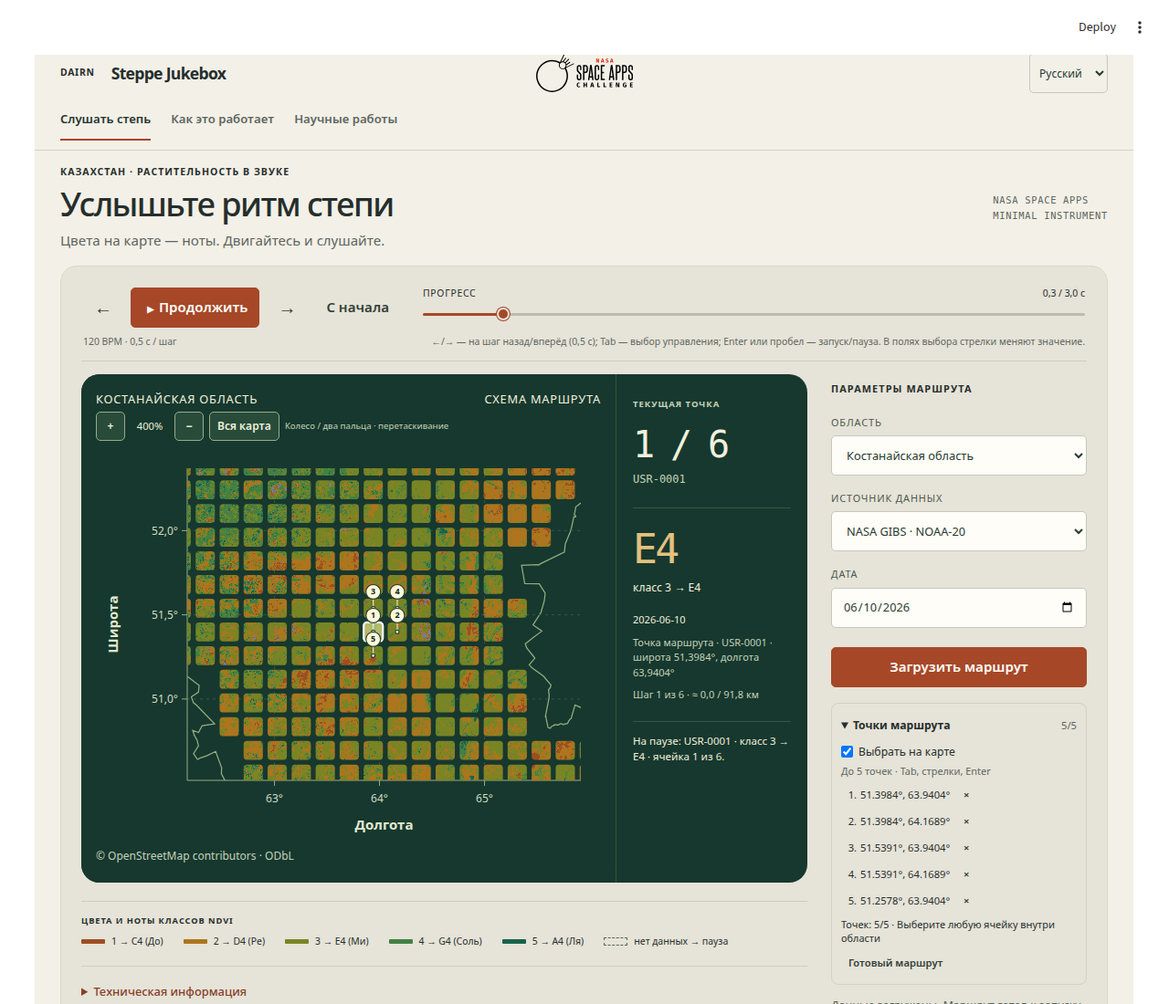
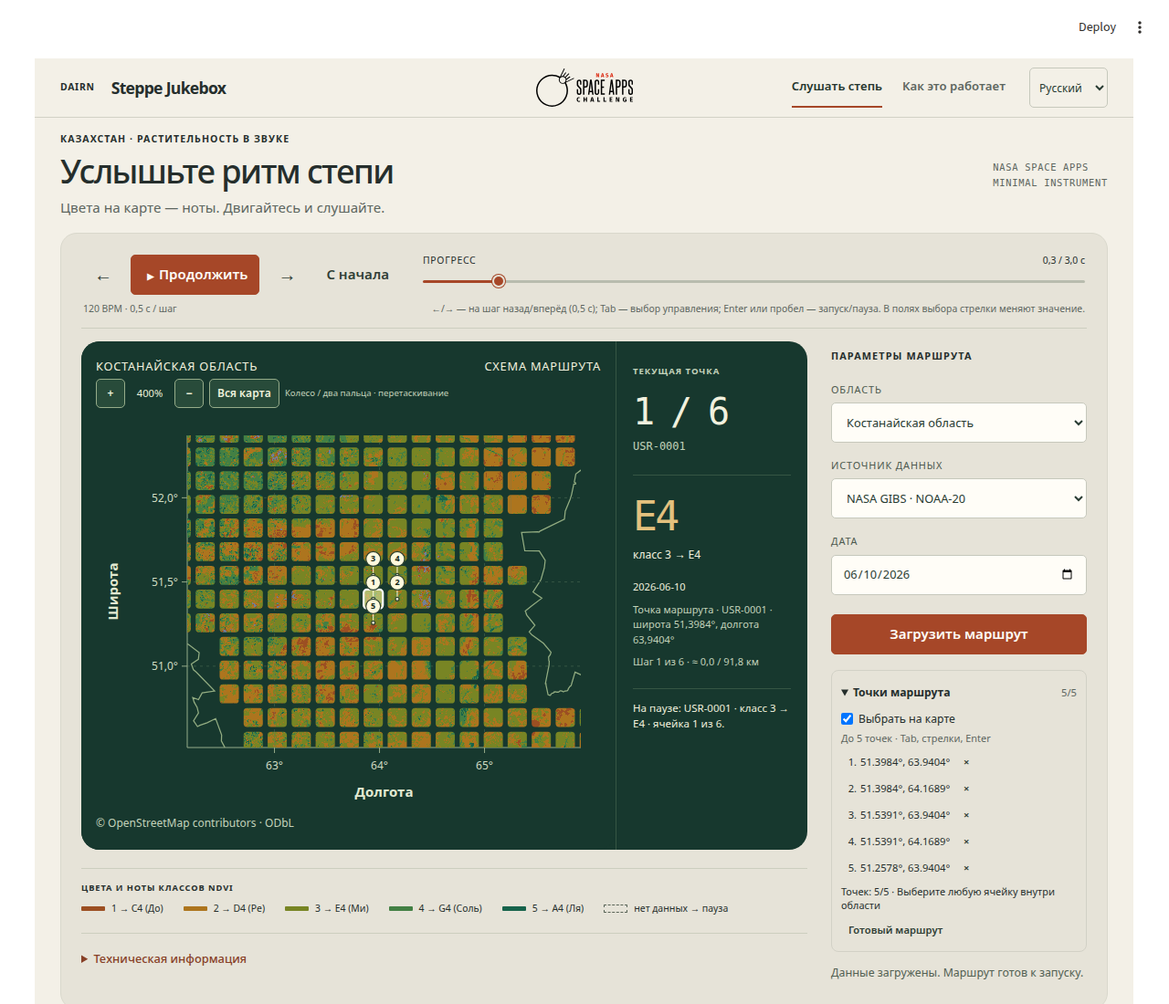
fix: hide research tab from public navigation

diff --git a/steppe_jukebox/frontend/index.html b/steppe_jukebox/frontend/index.html
@@ -19,7 +19,7 @@
       <nav id="navigation" role="tablist" data-i18n-aria="navigation_label">
         <button id="tab-listen" role="tab" aria-selected="true" aria-controls="listen-view" data-view="listen" data-i18n="listen_nav"></button>
         <button id="tab-method" role="tab" aria-selected="false" aria-controls="method-view" tabindex="-1" data-view="method" data-i18n="method_nav"></button>
-        <button id="tab-research" role="tab" aria-selected="false" aria-controls="research-view" tabindex="-1" data-view="research" data-i18n="research_nav"></button>
+        <button id="tab-research" role="tab" aria-selected="false" aria-controls="research-view" tabindex="-1" data-view="research" data-i18n="research_nav" hidden></button>
       </nav>
       <div class="language-field">
         <label class="sr-only" for="language" data-i18n="language_label">Language</label>

diff --git a/steppe_jukebox/frontend/player.js b/steppe_jukebox/frontend/player.js
@@ -65,7 +65,7 @@
   }
 
   function showView(value, focus = false) {
-    if (!views.includes(value)) return;
+    if (!views.includes(value) || $(`tab-${value}`).hidden) return;
     view = value;
     updateViewLayout();
     for (const key of views) {
@@ -670,7 +670,7 @@
     button.addEventListener("click", (event) => { event.preventDefault(); showView(button.dataset.openView || button.dataset.view, true); });
   });
   $("navigation").addEventListener("keydown", (event) => {
-    const tabs = [...$("navigation").querySelectorAll("[role=tab]")];
+    const tabs = [...$("navigation").querySelectorAll("[role=tab]")].filter(tab => !tab.hidden);
     let index = tabs.indexOf(document.activeElement);
     if (index < 0 || !["ArrowLeft", "ArrowRight", "Home", "End"].includes(event.key)) return;
     event.preventDefault();

diff --git a/steppe_jukebox/frontend/styles.css b/steppe_jukebox/frontend/styles.css
@@ -189,7 +189,7 @@ footer > span { font: .6rem ui-monospace,monospace; color: var(--muted); }
   #load-data { margin: 0; align-self: end; }
   .edition { display: none; }
 }
-@media (max-width: 1400px) {
+@media (max-width: 1200px) {
   .site-header { grid-template-areas: 'brand logo language' 'navigation navigation navigation'; gap: 8px 18px; }
   .header-actions { display: contents; }
 }

diff --git a/tests/test_research_view.py b/tests/test_research_view.py
@@ -1,93 +1,31 @@
-"""Restored papers stay separate from satellite data and the running player."""
+"""Research material is retained but unavailable in the public navigation."""
 
 import pytest
 from playwright.sync_api import expect
 
-from test_browser import browser, running_app, media, resize_viewport
-from test_live_browser import transport, ui, load
+from test_browser import browser, app_url, localized_ui, media
 
 
 pytestmark = pytest.mark.browser
 
-PAPERS = {
-    "naurzum": "https://doi.org/10.1515/hacq-2016-0017",
-    "kamennoye": "https://doi.org/10.32523/2616-7034-2023-145-4-63-70",
-}
 
-
-@pytest.mark.parametrize("locale,language,title", [
-    ("ru-RU", "ru", "Научные работы"),
-    ("kk-KZ", "kk", "Ғылыми еңбектер"),
-    ("en-GB", "en", "Research"),
-])
-def test_research_sources_regions_and_narrow_layout(browser, tmp_path, monkeypatch, locale, language, title):
-    folder = transport(tmp_path, monkeypatch)
-    with running_app(None, tmp_path / "research.log", live=True) as url:
-        ctx, page, f = ui(browser, url, locale)
-        errors = []
-        page.on("pageerror", lambda error: errors.append(str(error)))
-        f.locator("#tab-research").click()
-        expect(f.locator("#research-view h1")).to_have_text(title)
-        expect(f.locator("html")).to_have_attribute("lang", language)
-        for selector in ["#listen-view", "#method-view", "#playback-controls", "#selection-panel"]:
-            expect(f.locator(selector)).not_to_be_visible()
-        expect(f.locator(".research-card")).to_have_count(2)
-        expect(f.locator('[data-study="naurzum"]')).to_contain_text("2010")
-        expect(f.locator('[data-study="kamennoye"]')).to_contain_text("2019–2022")
-        for study, link in PAPERS.items():
-            anchor = f.locator(f'[data-study="{study}"] a')
-            expect(anchor).to_have_attribute("href", link)
-            expect(anchor).to_have_attribute("target", "_blank")
-            expect(anchor).to_have_attribute("rel", "noopener noreferrer")
-        expect(f.locator("#research-region-note")).not_to_be_visible()
-        for width in [1440, 1280, 1024, 853, 390, 320]:
-            resize_viewport(page, f, width, 1000)
-            assert f.evaluate("document.documentElement.scrollWidth <= innerWidth"), (language, width)
-            assert page.evaluate("document.documentElement.scrollWidth <= innerWidth")
-            tabs = f.locator('#navigation [role="tab"]').evaluate_all("nodes => nodes.map(n => n.getBoundingClientRect().toJSON())")
-            assert all(t["left"] >= 0 and t["right"] <= f.evaluate("innerWidth") for t in tabs), (language, width, tabs)
-            assert all(a["bottom"] <= b["top"] + 1 or a["right"] <= b["left"] + 1 for a, b in zip(tabs, tabs[1:]))
-        f.locator("#research-view .back-button").click()
-        f.locator("#region").select_option("akmola")
-        f.locator("#tab-research").click()
-        expect(f.locator("#research-region-note")).to_be_visible()
-        expect(f.locator(".research-card")).to_have_count(2)
-        assert not (folder / "requests.log").exists()
-        assert not errors
-        ctx.close()
-
-
-def test_research_navigation_and_source_link_preserve_live_audio(browser, tmp_path, monkeypatch):
-    folder = transport(tmp_path, monkeypatch)
-    with running_app(None, tmp_path / "research-audio.log", live=True) as url:
-        ctx, page, f = ui(browser, url)
-        load(f)
-        source = f.locator("audio").get_attribute("src")
-        requests = (folder / "requests.log").read_text()
-        f.locator("#map-zoom-in").click()
-        zoom = f.evaluate("steppeMapView.zoom")
-        f.locator("#toggle").click()
-        f.wait_for_function("document.querySelector('audio').currentTime > .1")
-        before = media(f)["time"]
-        f.locator("#tab-method").click()
-        f.locator("#tab-method").press("ArrowRight")
-        expect(f.locator("#tab-research")).to_be_focused()
-        f.locator("#language").select_option("kk")
-        ctx.route(PAPERS["naurzum"], lambda route: route.fulfill(status=200, content_type="text/html", body="<title>Research</title>"))
-        with ctx.expect_page() as popup:
-            f.locator('[data-study="naurzum"] a').click()
-        popup.value.wait_for_url(PAPERS["naurzum"])
-        popup.value.close()
-        assert media(f)["time"] >= before and not media(f)["paused"]
-        f.locator("#research-view .back-button").click()
-        f.locator("#toggle").click()
-        paused = media(f)["time"]
-        f.locator("#tab-research").click()
-        f.locator("#language").select_option("en")
-        f.locator("#tab-listen").click()
-        assert media(f)["paused"] and abs(media(f)["time"] - paused) < .01
-        assert f.locator("audio").get_attribute("src") == source
-        assert f.evaluate("steppeMapView.zoom") == zoom
-        assert (folder / "requests.log").read_text() == requests
-        expect(f.locator("audio")).to_have_count(1)
-        ctx.close()
+@pytest.mark.parametrize('language', ['ru', 'kk', 'en'])
+def test_research_stays_hidden_during_navigation_and_playback(browser, app_url, language):
+    with localized_ui(browser, app_url) as (page, f):
+        f.locator('#language').select_option(language)
+        expect(f.locator('#tab-research')).not_to_be_visible()
+        expect(f.locator('#research-view')).not_to_be_visible()
+        expect(f.get_by_role('tab')).to_have_count(2)
+        # Retain the original publications for a later decision to restore them.
+        expect(f.locator('.research-card a[href^="https://doi.org/"]')).to_have_count(2)
+        f.locator('#toggle').click()
+        f.wait_for_function('document.querySelector("audio").currentTime > .1')
+        f.locator('#tab-listen').press('End')
+        expect(f.locator('#tab-method')).to_be_focused()
+        f.locator('#tab-method').press('ArrowRight')
+        expect(f.locator('#tab-listen')).to_be_focused()
+        assert not media(f)['paused']
+        # The hidden tab cannot be opened through its stale click handler either.
+        f.locator('#tab-research').evaluate('e => e.click()')
+        expect(f.locator('#listen-view')).to_be_visible()
+        expect(f.locator('#research-view')).not_to_be_visible()

diff --git a/tests/test_ui_navigation.py b/tests/test_ui_navigation.py
@@ -26,24 +26,23 @@ def test_prototype_navigation_and_context_fit_desktop_and_mobile(browser, journe
         expect(frame.locator(".region-outline")).to_have_count(1)
         for width in [1440, 390, 320]:
             resize_viewport(page, frame, width, 900)
-            for view in ["listen", "method", "research"]:
+            for view in ["listen", "method"]:
                 frame.locator(f"#tab-{view}").click()
                 expect(frame.locator(f"#{view}-view")).to_be_visible()
                 assert frame.evaluate("document.documentElement.scrollWidth <= window.innerWidth"), (language, width, view)
                 assert page.evaluate("document.documentElement.scrollWidth <= window.innerWidth")
             expect(frame.locator("#tab-method")).to_have_text(method)
-        assert frame.locator('#navigation [role="tab"]').evaluate_all("nodes => nodes.map(n => n.dataset.view)") == ["listen", "method", "research"]
+        assert frame.locator('#navigation [role="tab"]:visible').evaluate_all("nodes => nodes.map(n => n.dataset.view)") == ["listen", "method"]
+        expect(frame.locator("#research-view")).not_to_be_visible()
         expect(frame.locator("#places-view, .field-context")).to_have_count(0)
         frame.locator("#tab-listen").click()
         frame.locator("#tab-listen").press("ArrowRight")
         expect(frame.locator("#tab-method")).to_be_focused()
         frame.locator("#tab-method").press("ArrowRight")
-        expect(frame.locator("#tab-research")).to_be_focused()
-        frame.locator("#tab-research").press("ArrowRight")
         expect(frame.locator("#tab-listen")).to_be_focused()
         frame.locator("#tab-listen").press("End")
-        expect(frame.locator("#tab-research")).to_be_focused()
-        frame.locator("#tab-research").press("Home")
+        expect(frame.locator("#tab-method")).to_be_focused()
+        frame.locator("#tab-method").press("Home")
         expect(frame.locator("#tab-listen")).to_be_focused()
         assert media(frame)["paused"] and media(frame)["time"] == 0
 
@@ -56,7 +55,6 @@ def test_navigation_and_language_preserve_clock_restart_stops_without_autoplay(b
         original_source = frame.locator("audio").get_attribute("src")
         before = media(frame)["time"]
         frame.locator("#tab-method").click()
-        frame.locator("#tab-research").click()
         frame.locator("#language").select_option("kk")
         assert media(frame)["time"] >= before
         assert not media(frame)["paused"]
@@ -66,7 +64,6 @@ def test_navigation_and_language_preserve_clock_restart_stops_without_autoplay(b
         paused = media(frame)["time"]
         active = frame.locator(".cell.active").get_attribute("data-cell-id")
         frame.locator("#tab-method").click()
-        frame.locator("#tab-research").click()
         frame.locator("#language").select_option("en")
         frame.locator("#tab-listen").click()
         assert media(frame)["time"] == paused

diff --git a/docs/LOCAL_DEMO.md b/docs/LOCAL_DEMO.md
@@ -1,11 +1,10 @@
 # Локальный запуск: данные NASA и сохранённые CSV
 
-В v0.6.0 используется интерфейс Minimal Instrument с тремя вкладками:
-«Слушать степь», «Как это работает», «Научные работы». Научный раздел
-содержит восстановленные публикации по Наурзуму и Каменному озеру,
-даты полевых наблюдений и ссылки DOI. Обе работы относятся к Костанайской
-области; для Акмолы показывается отдельное пояснение. Переключение раздела
-не прерывает звук и сохраняет пользовательскую паузу. Карта сохраняет вид v0.4.2;
+В v0.6.0 используется интерфейс Minimal Instrument с двумя вкладками:
+«Слушать степь» и «Как это работает». Вкладка «Научные работы» скрыта
+по уточнению пользователя; публикации и переводы сохранены в коде.
+Переключение раздела не прерывает звук и сохраняет пользовательскую паузу.
+Карта сохраняет вид v0.4.2;
 рядом отображаются текущая позиция, ID, нота, класс, дата и координаты.
 Параметры находятся справа, а на узком экране — над картой.
 В центре шапки размещён логотип Space Apps; DAIRN/Steppe Jukebox находятся
@@ -76,7 +75,7 @@ STEPPE_SAVED_REGIONS=1 python -m streamlit run app.py
 
 В поле «Режим» можно выбрать «Путешествие во времени». Переключение режима останавливает прежнюю дорожку и сбрасывает позицию, новый звук не запускается автоматически. При возврате в режим одной даты сохраняется ранее выбранный сезон.
 
-Смена области на вкладке «Слушать степь» останавливает и сбрасывает прежний трек без автозапуска; режим и сезон сохраняются. «С начала» также сбрасывает позицию без автозапуска. Разделы «Слушать степь», «Как это работает» и «Научные работы» доступны с клавиатуры; смена раздела и языка не прерывает звук. Карта использует географический контур OSM, а цвет относится к позициям маршрута.
+Смена области на вкладке «Слушать степь» останавливает и сбрасывает прежний трек без автозапуска; режим и сезон сохраняются. «С начала» также сбрасывает позицию без автозапуска. Разделы «Слушать степь» и «Как это работает» доступны с клавиатуры; скрытая научная вкладка пропускается. Смена раздела и языка не прерывает звук. Карта использует географический контур OSM, а цвет относится к позициям маршрута.
 
 Для Акмолинской области фиксированные даты — 2026-04-15 / 2026-07-16; пропуски весной — AKM-005 и AKM-027, летом — AKM-027. Путешествие содержит 56 дат 2026-04-15 … 2026-11-13. AKM-027 / 2026-07-24 — тишина в интервале 13,0–13,5 с, дата и маркер продолжают движение. Полная дорожка занимает 28 с. Контрольный WAV из #13 совпал с результатом синтезатора побайтно. Описание материалов и ручной проверки — в [отчёте v0.3.0](RELEASE_0.3.0.md).
 

diff --git a/CHANGELOG.md b/CHANGELOG.md
@@ -2,7 +2,7 @@
 
 ## 0.6.0 — 2026-11-15
 
-- После «Как это работает» восстановлен отдельный раздел «Научные работы»: две публикации по Наурзуму и Каменному озеру, даты исследований, полевой контекст и DOI. Доступен на ru/kk/en, сохраняет звук и паузу при переключении. География и годы наблюдений отделены от данных NASA; материалы Костаная не переносятся на Акмолу.
+- По итоговому уточнению пользователя вкладка «Научные работы» скрыта из навигации и пропускается клавиатурой. Публикации, DOI и переводы сохранены в коде; видимыми остаются «Слушать степь» и «Как это работает».
 - Логотип Space Apps открывает сайт хакатона в новой вкладке. Выбор языка сокращён до одного списка kk/en/ru: при открытии выбирается основной язык системы/браузера, при неподдерживаемом языке — английский. Пункт «Язык системы» и видимая подпись убраны; ручной выбор действует в открытой странице.
 - Предстоящий маршрут скрыт: на карте остаются выбранные точки, а текущая ячейка и пройденный след появляются при проигрывании. Панель «Точки маршрута» перенесена под «Загрузить маршрут» и по умолчанию свёрнута; счётчик виден в заголовке. Сворачивание сохраняет точки и состояние плеера, ошибки редактирования раскрывают панель.
 - В панели параметров добавлены компактный список координат и до пяти маркеров на существующей сетке. При открытии и сбросе выбран готовый маршрут и видны его именованные точки: три для Костаная (Каменное озеро → Наурзум → Аккум), четыре для Акмолы; штатные 48/56 шагов и 24/28 с сохранены. Знаки «+» заменены единственным набором пронумерованных точек.

diff --git a/docs/RELEASE_0.6.0.md b/docs/RELEASE_0.6.0.md
@@ -55,7 +55,17 @@ GitHub Release подготавливается **черновиком**: пуб
   ручной выбор, клавиатура, 6 ширин экрана, новая вкладка логотипа и
   сохранение воспроизведения. Результат: `header-0.6.0-browser.xml`.
 
-## Восстановленный раздел научных работ
+## Научные работы — скрытая вкладка
+
+Итоговое уточнение пользователя: вкладка оказалась лишней и **скрыта**.
+Навигация показывает только «Слушать степь» и «Как это работает»;
+стрелки и Home/End пропускают научную вкладку. Публикации, DOI,
+переводы и разметка сохранены в коде. Ниже описан сохранённый материал
+и история проверки до скрытия.
+
+После скрытия пройдены **13 целевых браузерных сценариев**: две видимые
+вкладки, обход скрытой вкладки клавиатурой, ru/kk/en, мобильная шапка,
+сохранение звука. Результат: `research-hidden-0.6.0-browser.xml`.
 
 После «Как это работает» добавлена отдельная вкладка «Научные работы»
 (kk/en/ru). Из истории до упрощения v0.4.2 восстановлены две публикации,
@@ -171,8 +181,8 @@ python -m streamlit run app.py
 - [Панель пяти координат](media/v0.6.0/five-points-panel.png).
 - [Контрольная пауза KST-006](media/v0.6.0/kst006-rest.png).
 - [Узкий экран 320 px](media/v0.6.0/mobile-320-settings.png).
-- [Научные работы, компьютер](media/v0.6.0/research-desktop.png).
-- [Научные работы, экран 320 px](media/v0.6.0/research-mobile-320.png).
+- [История до скрытия научной вкладки, компьютер](media/v0.6.0/research-desktop.png).
+- [История до скрытия научной вкладки, экран 320 px](media/v0.6.0/research-mobile-320.png).
 - [Сводка локального экземпляра](media/v0.6.0/checks.json).
 
 Кадры получены именно из сборки с номером v0.6.0. Исходные снимки

diff --git a/README.md b/README.md
@@ -19,7 +19,7 @@ The default routes retain their original geometry and timing: **Kostanay — 48 
 
 The **Route points** panel sits below **Load route**, starts collapsed and shows the point count in its heading. Zoom from **100% to 800%** using buttons, the mouse wheel or a two-finger pinch, and drag the enlarged map. Zooming, panning and collapsing the panel preserve the route and playback position. There is one audio player and no autoplay. The header has one compact Kazakh/English/Russian selector: each page opening selects the primary system/browser language, with English as the fallback. The hackathon logo links to the official Space Apps website in a new tab. Keyboard controls, seek buttons and the compact mobile layout remain available.
 
-The **Research** section follows **How it works**. It restores the Naurzum and Kamennoye Lake publications, survey dates, field context and DOI links in Kazakh, English and Russian. Both studies concern Kostanay Region; their observations remain separate from satellite data and are not assigned to Akmola.
+The interface has two tabs: **Listen to the steppe** and **How it works**. The **Research** tab is hidden; its publications and translations are retained in the source.
 
 Classes describe the selected visualization’s color scale, not precise numerical NDVI. GIBS and EIC have separate scales and caches; a missing date is reported without substituting another date or provider. The main interface uses **one date**. Historical seasonal datasets and journeys remain available explicitly in saved-data mode, with their original CSV/WAV contracts.
 
